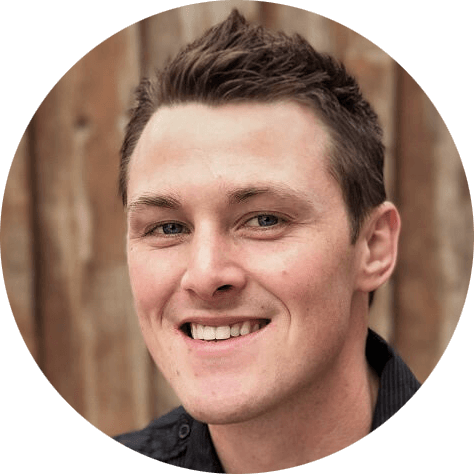
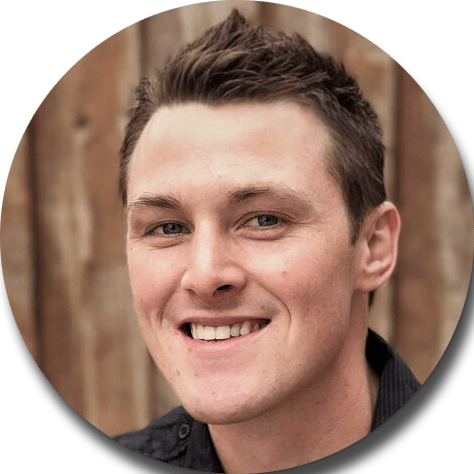
Styled a fe components within the Form

diff --git a/styles.css b/styles.css
@@ -145,7 +145,7 @@ box-shadow: 0px 5px 13px -8px rgba(0,0,0,0.71);
 ******************                            ******************/
 
 #about {
-  height: 90vh;
+  height: 80%;
   background-color: #424242;
   margin-top: -3%;
   padding: 13%;
@@ -163,10 +163,11 @@ box-shadow: 0px 5px 13px -8px rgba(0,0,0,0.71);
 }
 
 .portrait-img {
-  /* height: auto; */
+  height: auto;
   max-width: 100%;
   width: 150px;
-  padding-bottom: 5%;
+  margin: 8% 6%;
+  border-radius: 50%;
   -webkit-box-shadow: 6px 10px 13px -8px rgba(0,0,0,0.75);
   -moz-box-shadow: 6px 10px 13px -8px rgba(0,0,0,0.75);
   box-shadow: 6px 10px 13px -8px rgba(0,0,0,0.75);
@@ -177,10 +178,18 @@ box-shadow: 0px 5px 13px -8px rgba(0,0,0,0.71);
 
 ******************                            ******************/
 
-#projects {
-  background-color: #424242;
+#work {
+  font-size: 2rem;
+  background-color: #3e755c;
+  padding-bottom: 1%;
+  padding: 13%;
+  height: 1400px;
 }
 
+#work h3 {
+  color: #fafafa;
+  font-size: 1.45em;
+}
 /*****************      FOOTER CONTAINER      *******************
 
 ******************                            ******************/
@@ -188,7 +197,8 @@ box-shadow: 0px 5px 13px -8px rgba(0,0,0,0.71);
 #footer {
   font-size: 1.15rem;
   background-color: #272451;
-  height: 70vh;
+  height: 70%;
+  padding: 10% 7% 1% 7%;
 }
 
 .copyright {
@@ -196,6 +206,42 @@ box-shadow: 0px 5px 13px -8px rgba(0,0,0,0.71);
   color: #9e9e9e
 }
 
+/*****************      CONTACT FORM      *******************
+
+******************                            ******************/
+/* input::before::after {
+  opacity: 0.5;
+  z-index: 3;
+} */
+
+.form-control {
+  padding: 7% 2%;
+  font-size: .35em;
+  background: transparent;
+  background-color: rgba(103, 58, 183,.5);
+  border: 1px solid #673ab7;
+  color: #e0e0e0;
+  border-radius: .15rem;
+}
+
+.form-group {
+  margin-bottom: 0;
+}
+
+.btn-success {
+  background: transparent;
+  /* Permalink - use to edit and share this gradient: https://colorzilla.com/gradient-editor/#1e5799+0,2989d8+0,2989d8+0,207cca+0,2989d8+0,2989d8+1,2989d8+1,9c27b0+100 */
+  background: #1e5799; /* Old browsers */
+  background: -moz-linear-gradient(left,  #1e5799 0%, #2989d8 0%, #2989d8 0%, #207cca 0%, #2989d8 0%, #2989d8 1%, #2989d8 1%, #9c27b0 100%); /* FF3.6-15 */
+  background: -webkit-linear-gradient(left,  #1e5799 0%,#2989d8 0%,#2989d8 0%,#207cca 0%,#2989d8 0%,#2989d8 1%,#2989d8 1%,#9c27b0 100%); /* Chrome10-25,Safari5.1-6 */
+  background: linear-gradient(to right,  #1e5799 0%,#2989d8 0%,#2989d8 0%,#207cca 0%,#2989d8 0%,#2989d8 1%,#2989d8 1%,#9c27b0 100%); /* W3C, IE10+, FF16+, Chrome26+, Opera12+, Safari7+ */
+  filter: progid:DXImageTransform.Microsoft.gradient( startColorstr='#1e5799', endColorstr='#9c27b0',GradientType=1 ); /* IE6-9 */
+  font-size: .35em;
+  padding: 3% 20%;
+  width: 100%;
+  border: 1px solid #673ab7;
+  border-radius: .15rem;
+}
 
 /*****************     VARIABLE TEXT     *******************
 
@@ -261,9 +307,41 @@ box-shadow: 0px 5px 13px -8px rgba(0,0,0,0.71);
   }
 }
 
+@media screen and (min-width: 700px) {
+  h1 {
+    position: absolute;
+    margin-top: 10%;
+    top: 10px;
+  }
+
+  #about p {
+    max-width: 70%;
+  }
+}
+
+@media screen and (min-width: 700px) and (max-width: 850px) {
+  h1 {
+    margin-top: 21%;
+  }
+}
+
+@media screen and (min-width: 765px) {
+  .btn-success {
+    width: 65%;
+  }
+}
+
 @media screen and (min-width: 1000px) {
   html {
     font-size: 32px;
+  }
+  #about p {
+    font-size: .65em;
+    max-width: 60%;
+  }
+  .portrait-img {
+    width: 215px;
+    margin-top: 2.5%;
   }
 }
 
@@ -282,19 +360,5 @@ box-shadow: 0px 5px 13px -8px rgba(0,0,0,0.71);
   }
   h1 {
     margin-left: 17%;
-  }
-}
-
-@media screen and (min-width: 700px) {
-  h1 {
-    position: absolute;
-    margin-top: 10%;
-    top: 10px;
-  }
-}
-
-@media screen and (min-width: 700px) and (max-width: 850px) {
-  h1 {
-    margin-top: 21%;
   }
 }

diff --git a/index.html b/index.html
@@ -46,7 +46,7 @@
               <a class="nav-link" href="#">About</a>
             </li>
             <li class="nav-item">
-              <a class="nav-link" href="#">Projects</a>
+              <a class="nav-link" href="#">Work</a>
             </li>
             <li class="nav-item">
               <a class="nav-link" href="#">Contact</a>
@@ -78,9 +78,9 @@
     </div>
 
 
-    <!-- PROJECTS CONTAINER-->
-    <div id="projects" class="container-fluid">
-      <h3>Projects</h3>
+    <!-- WORK CONTAINER-->
+    <div id="work" class="container-fluid">
+      <h3 class="text-center">Work</h3>
     </div>
 
   </main>
@@ -89,6 +89,72 @@
 
   <!-- FOOTER CONTAINER-->
   <footer id="footer" class="container-fluid">
+      <!-- CONTACT FORM -->
+      <div class="container">
+
+    <div class="row">
+
+      <div class="col-lg-8 col-lg-offset-2">
+
+
+        <form id="contact-form" method="post" action="" role="form">
+
+        <div class="messages"></div>
+
+        <div class="controls">
+
+          <div class="row justify-content-center">
+            <div class="col-md-6">
+              <div class="form-group mx-auto d-block align-items-center">
+                <label for="form_name"></label>
+                <input id="form_name" type="text" name="name" class="form-control" placeholder="First Name *" required="required" data-error="Firstname is required.">
+                <div class="help-block with-errors"></div>
+              </div>
+            </div>
+            <div class="col-md-6">
+              <div class="form-group mx-auto d-block">
+                <label for="form_lastname"></label>
+                <input id="form_lastname" type="text" name="surname" class="form-control" placeholder="Last Name *" required="required" data-error="Lastname is required.">
+                <div class="help-block with-errors"></div>
+              </div>
+            </div>
+          </div>
+          <div class="row">
+            <div class="col-md-6">
+              <div class="form-group">
+                <label for="form_email"></label>
+                <input id="form_email" type="email" name="email" class="form-control" placeholder="Email *" required="required" data-error="Valid email is required.">
+                <div class="help-block with-errors"></div>
+              </div>
+            </div>
+            <div class="col-md-6">
+              <div class="form-group">
+                <label for="form_phone"></label>
+                <input id="form_phone" type="tel" name="phone" class="form-control" placeholder="Company">
+                <div class="help-block with-errors"></div>
+              </div>
+            </div>
+          </div>
+          <div class="row">
+            <div class="col-md-12">
+              <div class="form-group">
+                <label for="form_message"></label>
+                <textarea id="form_message" name="message" class="form-control" placeholder="Send me anything you'd like! *" rows="4" required data-error="Please,leave us a message."></textarea>
+                <div class="help-block with-errors"></div>
+              </div>
+            </div>
+            <div class="col-md-12">
+              <input type="submit" class="btn btn-success btn-send text-center" value="Send message">
+            </div>
+          </div>
+
+        </div>
+
+        </form>
+
+      </div>
+
+    </div>
       <p class="copyright"><b>C</b> TwentyNineteen | Jantsen DeRoest</p>
   </footer>
 

diff --git a/app.js b/app.js
@@ -39,6 +39,49 @@ db.once('open', function() {
 // Interactive Javascript
 //
 
+//
+// Contact Form Validator
+//
+// $(function() {
+//
+//
+//   $("#contact-form").validator();
+//
+//   // when the form is submitted
+//   $("#contact-form").on("submit", function(e) {
+//     // if the validator does not prevent form submit
+//     if (!e.isDefaultPrevented()) {
+//       var url = "contact.php";
+//
+//
+//       var messageAlert = "alert-success";
+//       var messageText =
+//         "Your message was sent, thank you. I will get back to you soon.";
+//
+//       // let's compose Bootstrap alert box HTML
+//       var alertBox =
+//         '<div class="alert ' +
+//         messageAlert +
+//         ' alert-dismissable"><button type="button" class="close" data-dismiss="alert" aria-hidden="true">×</button>' +
+//         messageText +
+//         "</div>";
+//
+//       // If we have messageAlert and messageText
+//       if (messageAlert && messageText) {
+//         // inject the alert to .messages div in our form
+//         $("#contact-form").find(".messages").html(alertBox);
+//         // empty the form
+//         $("#contact-form")[0].reset();
+//       }
+//
+//       return false;
+//     }
+//   });
+// });
+
+
+
+
 app.listen(3000, function() {
   console.log("Server started on port 3000");
 });
